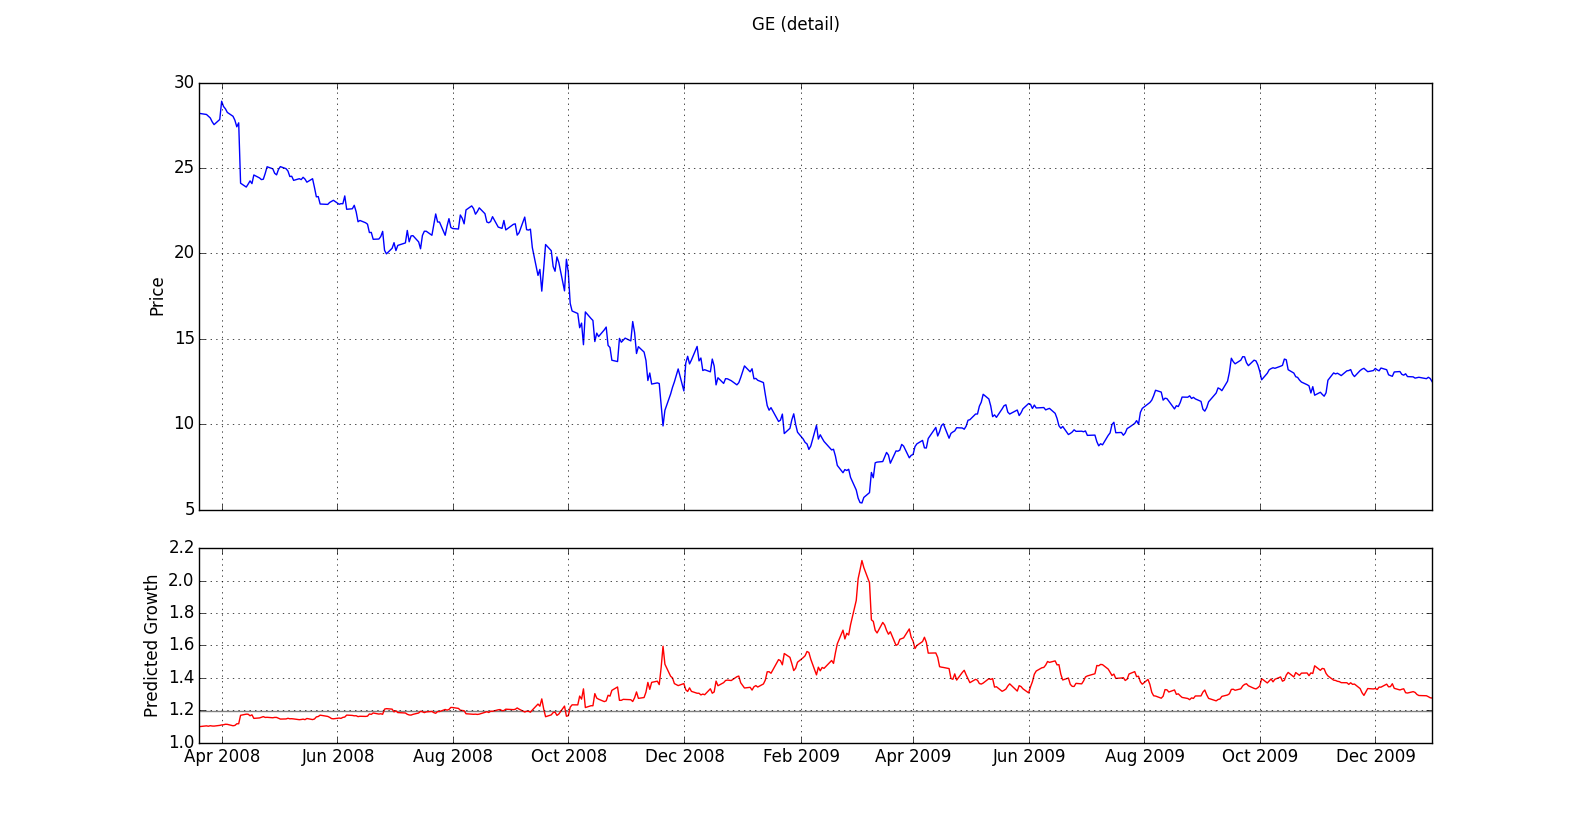
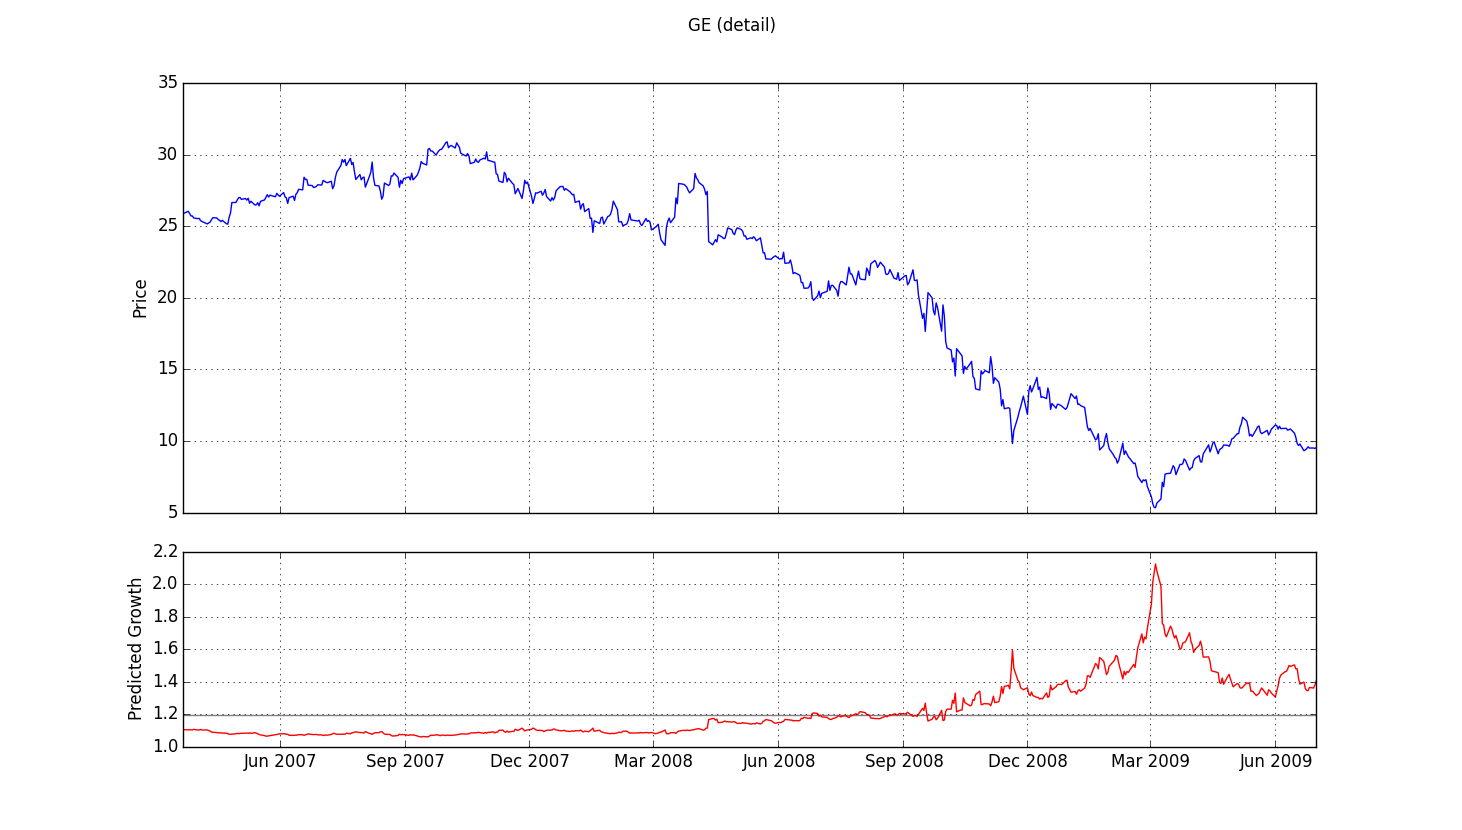
Finished rough draft.

diff --git a/content/details/_2015123001.php b/content/details/_2015123001.php
@@ -5,14 +5,14 @@
 <div class="media">
     <p>Some co-conspirators and I have been working recently on how to apply computational
     techniques such as machine learning and genetic programming to quantitative
-    finance. One of the first problems one has in this area is
-    how to predict growth. It turns out that it isn't at all easy to make
-    predictions that are better out of sample than always predicting average
-    growth. After experimenting with a wide variety of metrics commonly used
-    in quantitative finance, we have now developed an algorithm that yields
+    finance. One of the first problems one has here is
+    how to predict growth. It turns out that it isn't easy to make
+    predictions that are better out of sample than always predicting <em>average</em>
+    growth. After experimenting with numerous metrics commonly used
+    in quantitative finance, we have developed an algorithm that yields
     statistically sound predictions. While I can't share the details
-    of our algorithms, I can describe in general terms what we're trying to do
-    and share some visualizations of the results.</p>
+    of our methodology, I shall discuss here the problem it addresses
+    and some of our initial results.</p>
 
     <p>The following chart shows actual adjusted price (blue) compared to predicted 
     growth (red) for <em>GE</em> over the last 20 years. 
@@ -20,9 +20,8 @@
     <em>Adjusted</em> price is provided by <a href="http://finance.yahoo.com" 
     target="_blank">Yahoo! Finance</a> with adjustments
     for splits and dividends. Predicted growth is calculated using our machine
-    learning model and is of
-    course derived only from data available at the time of the prediction.
-    The grey line right around 1.2 in the lower chart represents average growth.
+    learning model and is derived only from data available at the time of the prediction.
+    The grey horizontal line at about <code>1.2</code> in the lower chart represents <em>average</em> growth.
     So, the model is predicting above average growth whenever the red line
     is above the grey line and below average growth when the red line drops
     below the grey.</p>
@@ -31,28 +30,28 @@
     of 2009 as a great time to buy, it would have been difficult
     in real time to recognize the exact best spot even with knowledge 
     only of predictions up to the current time. For example, toward the
-    end of 2008, predicted growth spikes first to around 1.6, which translates
+    end of 2008, predicted growth spikes first to around <code>1.6</code>, which translates
     to a predicted 60% return on investment over the prediction period.
     <em>In real time</em>, with knowledge only of events and metrics
-    up to that point, that would seem like a great spot to buy, and
-    it would indeed have been a fairly good one. If you waited
+    up to that point, that would already seem like a great spot to buy, and
+    it would indeed have been a pretty good one. If you waited
     a little longer, however, until the stock went down another 50% to around $5 in early 2009,
-    you would have done significantly better. So, while our crystal ball does 
-    provide some very useful information, it is not obvious how best to make
+    you would have done significantly better. So, while our crystal ball clearly
+    provides useful information, it is not obvious how best to make
     use of the predictions <em>in real time</em> in an optimized investment strategy.
     Nor will I be discussing here how one might devise such a strategy. Here,
-    I'll only be interested in making good predictions and will take it for
-    granted that better predictions can be used for improving expected
-    profitability. I do want to point out that even given
-    relatively accurate albeit fallible predictions, it is by no means
-    obvious how to create an investment strategy that is optimal
+    I'll only be interested in how to make accurate predictions and will take it for
+    granted that such predictions can be used for improving expected
+    profitability. I do want to emphasize that even given
+    relatively accurate, albeit fallible, predictions, it is still
+    not clear how to create an investment strategy that is optimal
     in the sense of maximizing growth while minimizing risk.<p>
 
     <p>In order to understand what this chart <em>does</em> tell us,
     let's look at the context of the problem we're attempting to solve and
     the metrics by which to evaluate "better" or "worse" solutions. We can then
-    better understand what kind of information this chart is providing
-    as well as its limitations.</p>
+    better understand what such charts tell us
+    as well as their limitations.</p>
 
     <h3>Context and problem</h3>
 
@@ -60,23 +59,23 @@
     demonstrably better than investing in an index such as the S&P 500. "Better"
     here means higher growth with lower risk. We can leave the definition at that
     for now (<a target="_blank" href="https://en.wikipedia.org/wiki/Sharpe_ratio">Sharpe ratio</a> 
-    is one way to quantify this fitness measure), because so far we have been 
-    working primarily on how to predict growth. I won't be discussing here
-    any of the well-known methods that work well for calculating volatility or risk.
-    </p>
+    is one way to quantify this fitness measure), because so far our team has been 
+    working primarily on how to predict growth. So, I won't be discussing here
+    any of the well-known methods that work well for calculating volatility or risk.</p>
 
-    <p>I recently watched an online video 
-    that claimed to have found a hidden technique for predicting with 100%
-    accuracy entry points for buying stocks low and exit points for 
+    <p>I recently watched an online video that claimed to solve the same problem
+    we are addressing. Its author 
+    claimed to have found a hidden technique for predicting <em>with 100%
+    accuracy</em> entry points for buying stocks low and exit points for 
     selling high. While I knew right away that the "100%" claim
-    was inaccurate, the author's idea sounded pretty plausible,
-    so I wrote the code to calculate and chart the metrics
-    for determining entry and exit points according to this algorithm.
+    couldn't be inaccurate, the author's idea sounded plausible,
+    so I wrote the code to calculate and chart the 
+    entry and exit points according to this algorithm.
     And on the charts, it did
     seem like more often than not, the sell points were higher than
     the buy points. So, I backtested it on a small but
     random selection of stocks from the S&P over a 20 year period.
-    The algorithm generated a profit on a statistically relevant set of data, but one would
+    And, while the algorithm generated a profit on a statistically relevant set of data, one would
     have in fact made <em>more</em> money by just investing an equal share in each
     of the randomly selected stocks and selling at the end of the trial.
     In other words, buy and hold was superior to the algorithm.</p>
@@ -103,57 +102,108 @@
     with brokerages that receive market data within nanoseconds of its availability, so we have
     focussed on medium- to long-term patterns where it doesn't matter so much if your
     data feed is seconds or minutes behind the market. We're concerned with predicting
-    how well a stock is likely to perform in the next few months. Let's look now
+    how well a stock is likely to perform over the next few months. Let's look now
     at how to get a valid metric for this task.</p>
 
     <h3>Making accurate predictions</h3>
-    <p>Stock price behavior is influenced by many unpredictable factors and
-    thus includes an enormous amount of noise. Because we can never predict future prices
+    <p>Stock prices are influenced by many unpredictable factors and
+    are thus subject to significant fluctuations due to noise. 
+    Because we can never predict future prices
     exactly, we need a measure by which to judge which of several inexact
     predictions is the most accurate. <a href="https://en.wikipedia.org/wiki/Standard_error"
     target="_blank">Standard error</a> is the measure we are looking for to
     quantify predictive accuracy.</p>
     <p>The <em>standard error</em> of an estimate or prediction is the statistical
     counterpart to <em>standard deviation</em>. Information on how to calculate it
-    is readily available and is outside the scope of this article. Its significance
-    can best be explained by example: If we say that our predictions have a standard
+    is readily available, so I won't go into that here. What standard error means, though,
+    can be explained by a simple example: If we say that our predictions have a standard
     error of <code>0.5</code> relative to known actual values, that means that about 
     <code>2/3</code> of our estimates will be within <code>0.5</code> of the actual value.</p>
     
-    <p>The success of a machine learning algorithm is measured by low standard error <em>out
+    <p>The success of a machine learning algorithm is measured, then, by low standard error <em>out
     of sample</em>--i.e., on test data not visited by the algorithm while it was
     learning the model. Machine learning algorithms are <em>designed</em> to minimize
     error <em>in sample</em>, on the data from which the model is developed.
     So, they will invariably do well in sample but will not necessarily be
     useful out of sample. What that means in our context is that we might 
     develop a model from past data on some random selection
-    of stocks that makes very accurate predictions on the stocks  and time period used for learning.
-    But we could find that its predictions are not accurate out of sample,
-    on stocks that were not used in developing the model.</p>
+    of stocks that makes very accurate predictions on <em>those</em> stocks for <em>that</em> time period.
+    But its predictions may not be accurate out of sample,
+    on stocks that were not used when developing the model.</p>
 
-    <p>Our baseline for predicting growth was simply to use the mean, which can
+    <p>Our baseline for predicting growth was the mean, which can
     be shown to be the constant model with the greatest accuracy. In other words,
     our baseline was to take a random selection of equities and simply calculate 
     their average growth over a given forecast interval. The standard error
     of this constant prediction is then the value that needs to be beaten <em>out of sample</em>.
-    Given the noisy data, this task isn't easy. As the basis for an investment strategy, 
+    Given the noisy fluctuations, this isn't easy to do. As the basis for an investment strategy, 
     this baseline prediction will invariably lead to  
     <em>buy and hold</em>. The baseline prediction is in fact impossible to beat if
     it is true that current price alone is the best predictor of future price.
     As is well known among specialists in quantitative finance, buy
-    and hold is not easy to beat. Many experts believe that 
+    and hold is hard to beat. Many experts believe that 
     efficient markets price in all available information. If their hypothesis 
     holds, current price 
-    <em>is</em> in fact the best predictor of future price.</p>
+    <em>is</em> in fact the best predictor of future price, and buy-and-hold is the best
+    investment strategy.</p>
     <p>We have experimented with numerous technical
     indicators to determine which, if any, could lead to models consistently showing lower out-of-sample
     error than the baseline prediction, and we have arrived at features that
     have shown modest but consistent improvements relative to 
     the baseline. While I can't share what these features are, I can present
-    some charts illustrating what the predictions are telling us.</p>
+    some charts illustrating what the algorithm predicts in a few sample cases.</p>
     
     <h3>Initial results</h3>
+    <p>Let's first look at a detail of the most interesting time frame from the GE chart
+    shown above:</p>
     <img src="images/ge_growth_detail.png" class="img-responsive">
+    <p>While it may be difficult or impossible in real time to deduce from the predictions an optimal buy point,
+    there is a clear spike in predicted growth which peaks at what is clearly
+    the best time to <em>buy</em>. The predictions do not, however, provide comparable clarity
+    on when to <em>sell</em>. When the stock is in reality about to drop from a peak of over 30
+    the growth prediction is weak but still positive, somewhere around <code>1.1</code>.
+    The algorithm expects the stock to do worse than the baseline at this point in time, but it
+    is wrongly still predicting positive growth. According to the predictions,
+    the stock's value would increase by 10% from, let's say, 30 to 33. Instead
+    it drops from 30 to a low around 5. The predictions still beat the baseline,
+    which constantly predicts a 20% increase in price, but the model
+    doesn't seem willing to go out on a limb in predicting a catastrophic decline.</p>
+    <p>When using these predictions in an investment strategy, one important
+    question will be whether those stocks showing the highest predicted growth in
+    bear markets are in fact fairly resistent to decline or are even among the few stocks that
+    actually show a gain during a financial crisis. In that case, even fairly
+    simple strategies built on the predictions should do quite well.
+    This is the kind of question we're still researching, so for now, I don't
+    yet have an answer.</p>
+
+    <p>The chart of TSLA shows that the model doesn't predict explosive growth only
+    after a sharp decline but also after a flat period. The model isn't catching <em>only</em>
+    the patterns typical of stocks bottoming out as they did in early 2009:</p>
     <img src="images/tsla_growth.png" class="img-responsive">
+    <p>Here, too, we see a spike in predicted growth at what would have been
+    an excellent time to buy Tesla Motors, namely in May of 2013. Aside from the
+    difficulty of taking action in real time, <em>without the knowledge of whether predicted
+    growth might go higher still</em>, if we had invested in May 2013 when the stock was below
+    100 and then sold in October when predicted growth falls back to the baseline, we would
+    have had a return on investment of around 100% over a period of only 5 months!</p>
+    <p>An interesting feature of this chart is that predicted growth actually <em>does</em>
+    show a well-defined valley from December 2013 until roughly March 2014. The negative
+    growth prediction does not, however, reflect what actually happens. In reality, TSLA
+    still has a good deal of growth left and, while its price fluctuates quite a bit
+    in the ensuing time period, it almost always stays above 200. So, the sell point
+    indicated by the model is certainly sub-optimal.</p>
+
+    <h3>Summary</h3>
+    <p>Let me start with what our model <em>does not</em> do: It doesn't
+    predict bull and bear cycles with anything approaching 100% accuracy. It is
+    a model based on statistics and designed to yield the lowest possible standard
+    error based on metrics known in real time. It can't predict fluctuations due
+    to noise, which is just the aggregate of causally relevant events that could not be foreseen
+    at the time. We required
+    numerous attempts, trying many different metrics, to arrive at a model
+    yielding predictions more accurate out of sample than the baseline of average
+    growth. The charts shown here reflect the output of that model and suggest
+    that these growth predictions can provide very useful input for investment strategies capable of
+    outperforming buy and hold.</p>
 
 </div>
